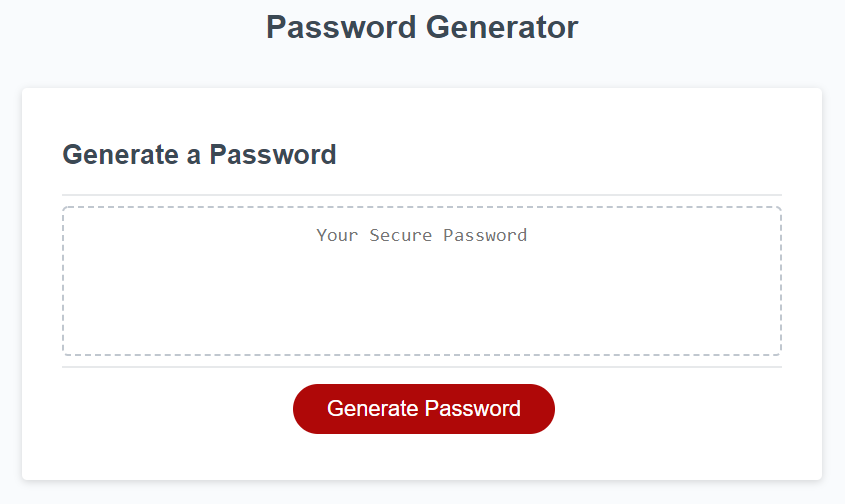
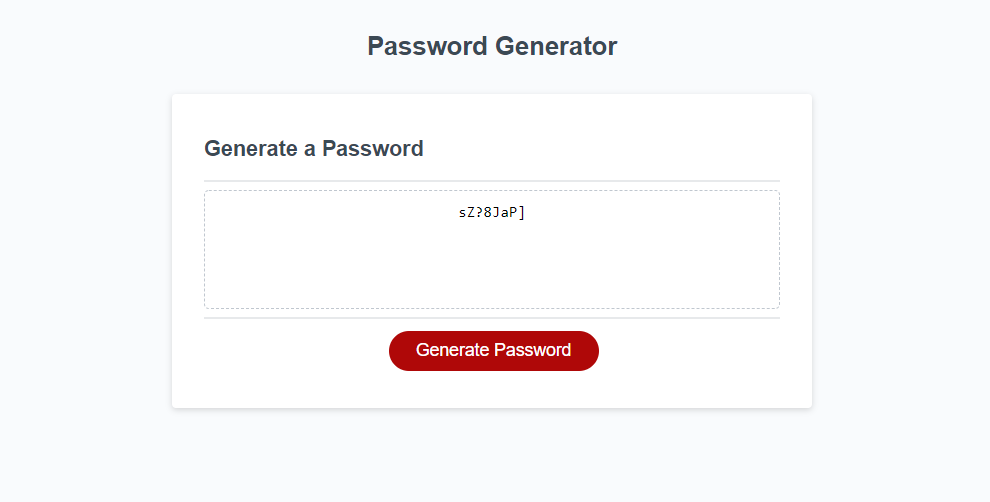
script

diff --git a/Assets/script.js b/Assets/script.js
@@ -1,0 +1,86 @@
+function generatePassword()
+{
+  
+  var lowerCaseLetter = ["a","b","c","d","e","f","g","h","i","j","k","l","m","n","o","p","q","r","s","t","u","v","w","x","y","z"]
+  var upperCaseLetter = ['A','B','C','D','E','F','G','H','I','J','J','L','M','N','O','P','Q','R','S','T','U','V','w','X','Y','Z']
+  var specialCharacters = ["!",'"',"#","$","%","&","'","(",")","*","+",",","-",".","/",":",";","<","=",">","?","@",'[',"\\",']','^',"_","`","{","|","}","~"]
+  var numbs=['1','2','3','4','5','6','7','8','9','0']
+  var priorPassword=[]
+  var currentPassword=[]
+  var currentPasswordindex=[]
+  var i=0
+
+  
+  var input1 = window.prompt("Choose length of the password (please input 8-128)")
+  var passwordLength = parseInt(input1)
+  
+  if(input1 === null){
+    return alert("Please try again with an input of 8-128")
+  }
+
+  while (true) 
+    if (passwordLength <8 || passwordLength>128 || !passwordLength){
+       passwordLength= window.prompt("Error! please try again!"+"/n"+"Length of the password (please input 8-128)")
+      if(passwordLength=== null){
+        return alert("Please try again with an input of 8-128")
+      }
+    } 
+
+  else{
+      var lowerCaseQuery= window.confirm("Including lowercase letters?")
+      if (lowerCaseQuery){
+      priorPassword= priorPassword.concat(lowerCaseLetter);
+      lowercaseIndex= (Math.floor(Math.random() * lowerCaseLetter.length));
+      currentPassword.push(lowerCaseLetter[lowercaseIndex]);
+      i++
+      
+      }
+    
+      var upperCaseQuery= window.confirm("Including uppercase letters?")
+      if (upperCaseQuery){
+      priorPassword=priorPassword.concat(upperCaseLetter);
+      upperCaseLetterIndex= (Math.floor(Math.random() * upperCaseLetter.length));
+      currentPassword.push(upperCaseLetter[upperCaseLetterIndex]);
+      i++
+    }
+  
+   var specialCharQuery= window.confirm("Including special characters?")
+    if (specialCharQuery){
+    priorPassword=priorPassword.concat(specialCharacters);
+    specialcharactersIndex= (Math.floor(Math.random() * specialCharacters.length));
+    currentPassword.push(specialCharacters[specialcharactersIndex]);
+    i++
+    }
+  
+    var numbsQuery= window.confirm("Including numbers?")
+    if (numbsQuery){
+    priorPassword=priorPassword.concat(numbs);
+    numbsIndex= (Math.floor(Math.random() * numbs.length));
+    currentPassword.push(numbs[numbsIndex]);
+    i++
+    }
+  
+   while (i<passwordLength){
+    currentPasswordindex= (Math.floor(Math.random() * priorPassword.length));
+    
+    currentPassword.push(priorPassword[currentPasswordindex]);
+    
+    i++;
+    }
+  
+    return currentPassword.join("")
+
+  }
+}
+
+var generateBtn = document.querySelector("#generate");
+  
+
+function writePassword() {
+  var password = generatePassword();
+  var passwordText = document.querySelector("#password");
+  
+  passwordText.value = password;
+}
+  
+generateBtn.addEventListener("click", writePassword);

diff --git a/README.md b/README.md
@@ -3,6 +3,7 @@
 ## Table of Contents
 - [User-Story](#user-story)
 - [Usage](#usage)
+- [Password-Generator-Screenshot] (#password-generator-screenshot)
 - [URL](#URL)
 
 
@@ -34,6 +35,10 @@ THEN a password is generated that matches the selected criteria
 WHEN the password is generated
 THEN the password is either displayed in an alert or written to the page
 ```
+
+## Password-Generator-Screenshot
+
+![alt text](./Assets/03-javascript-homework-demo.png "screenshot of Password Generator")
 
 ## URL
 ### Github Reposity
